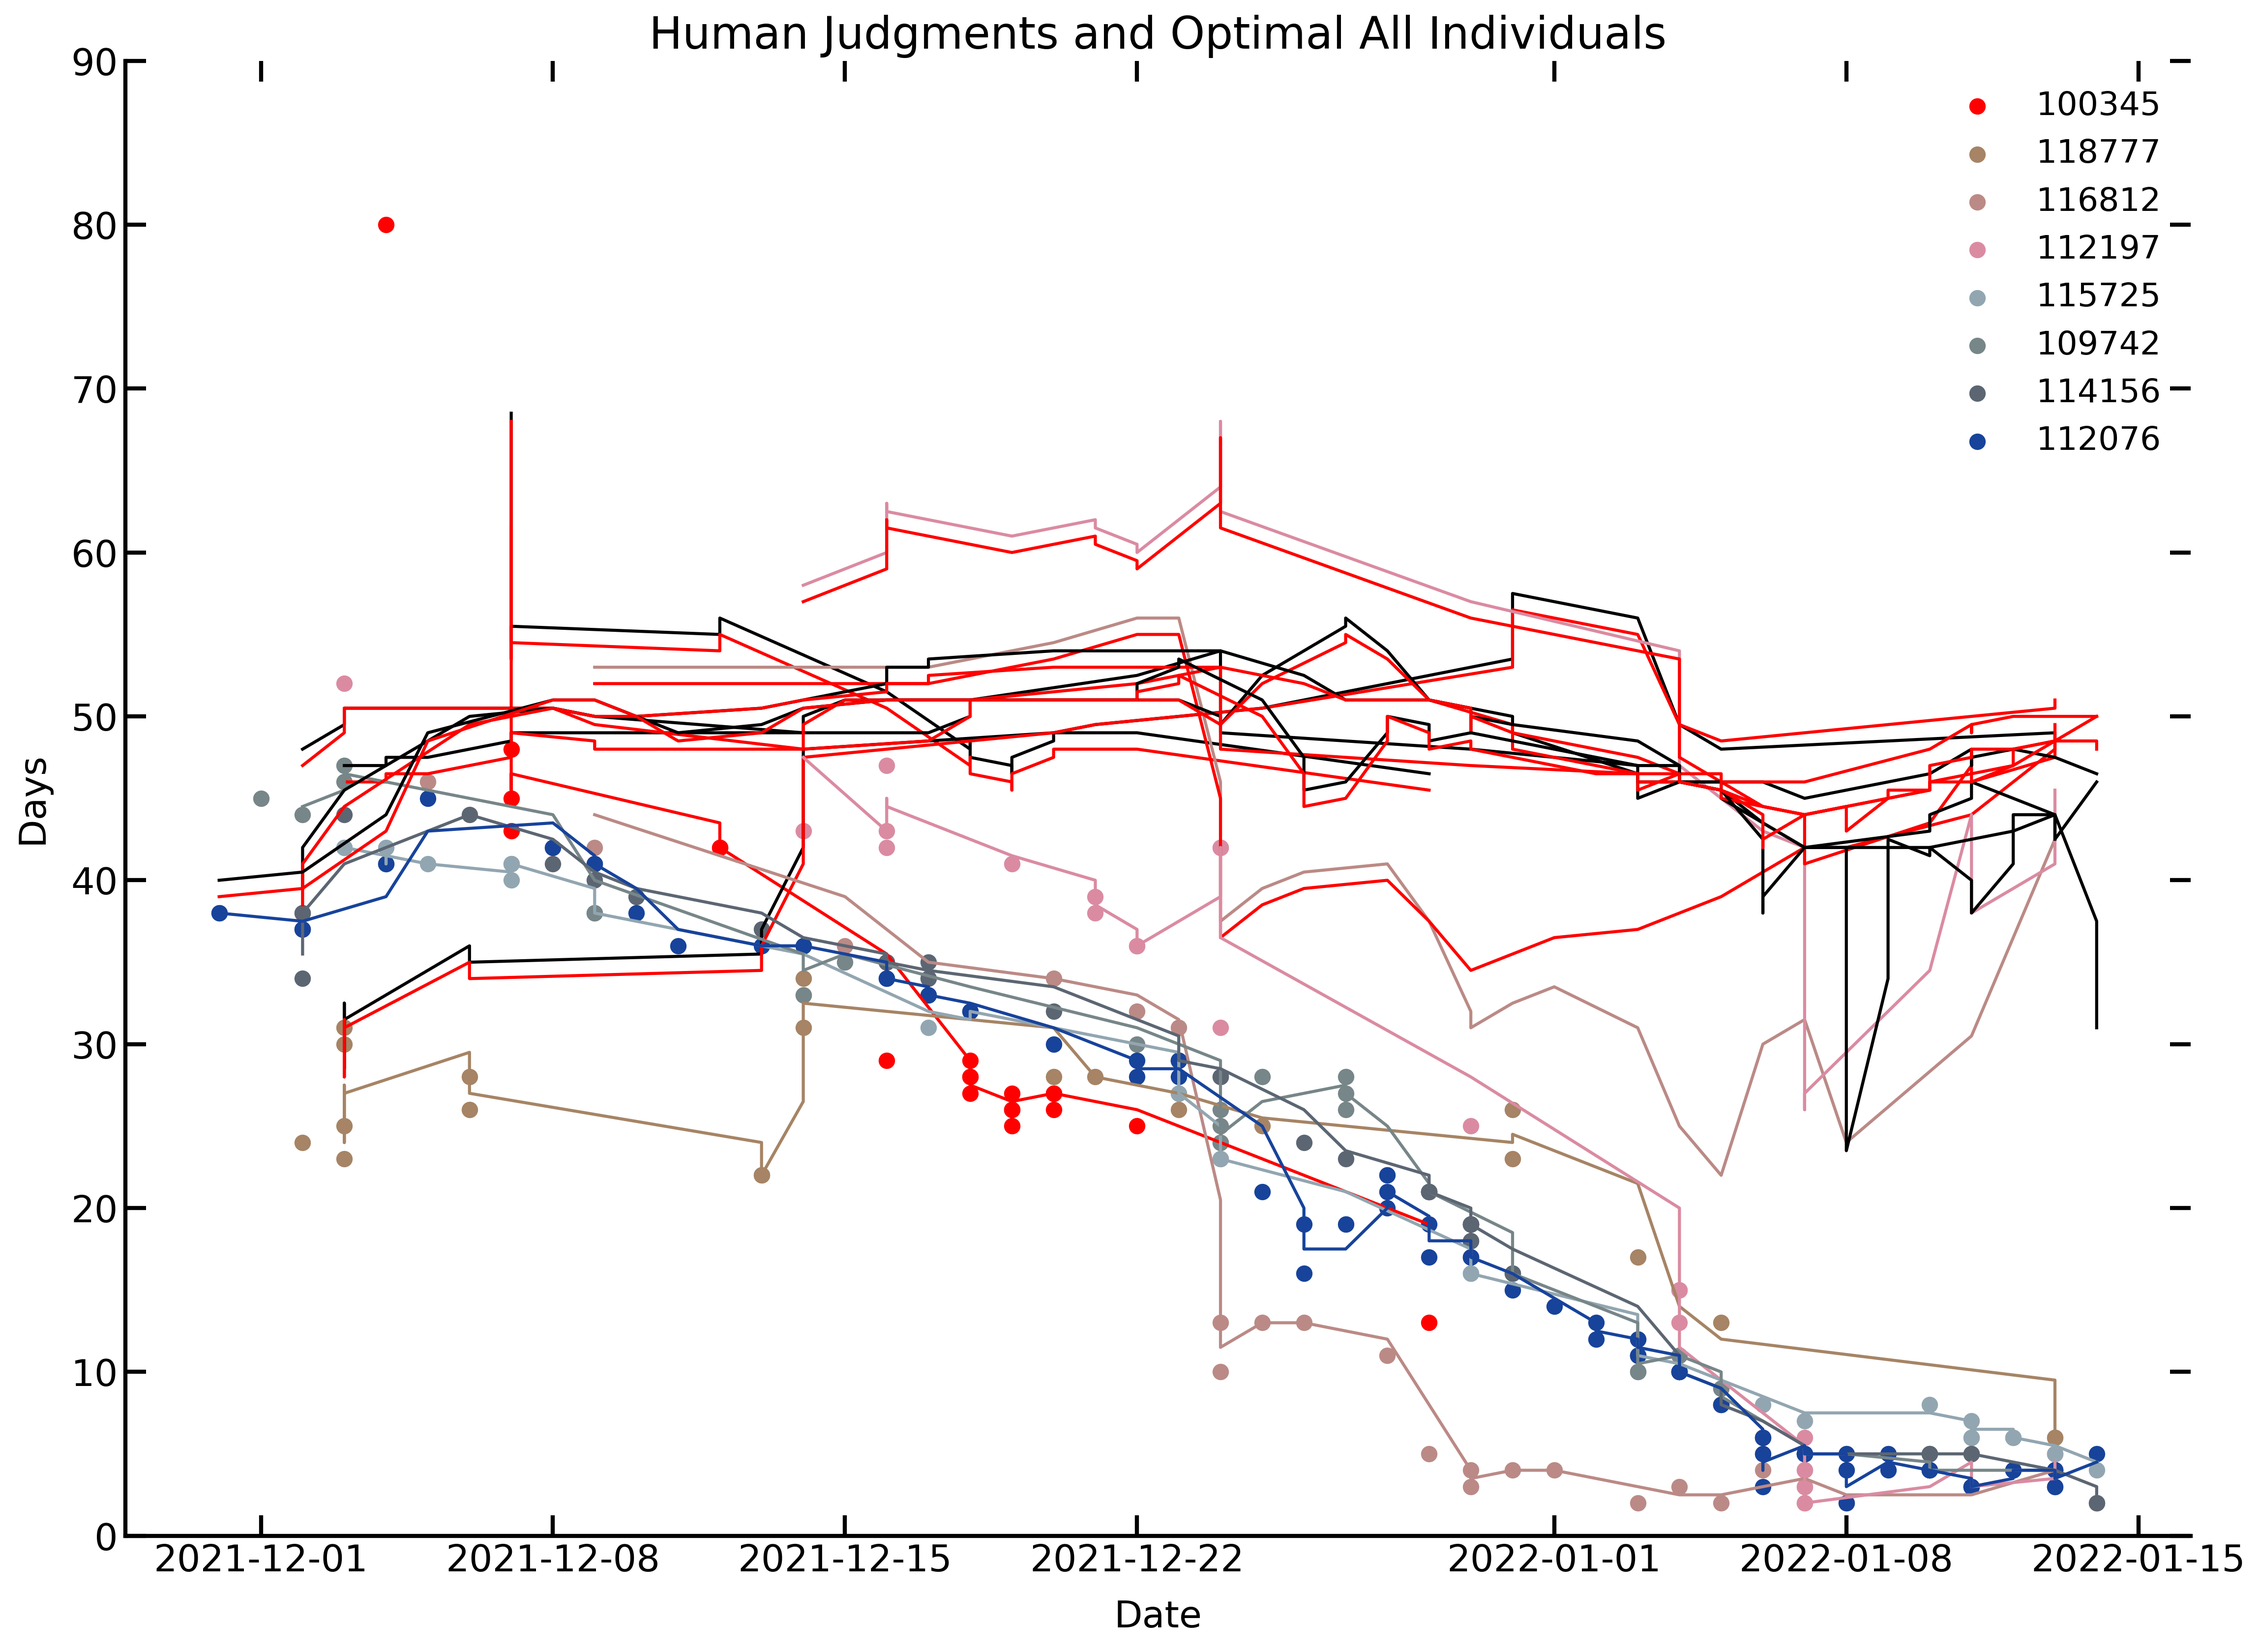
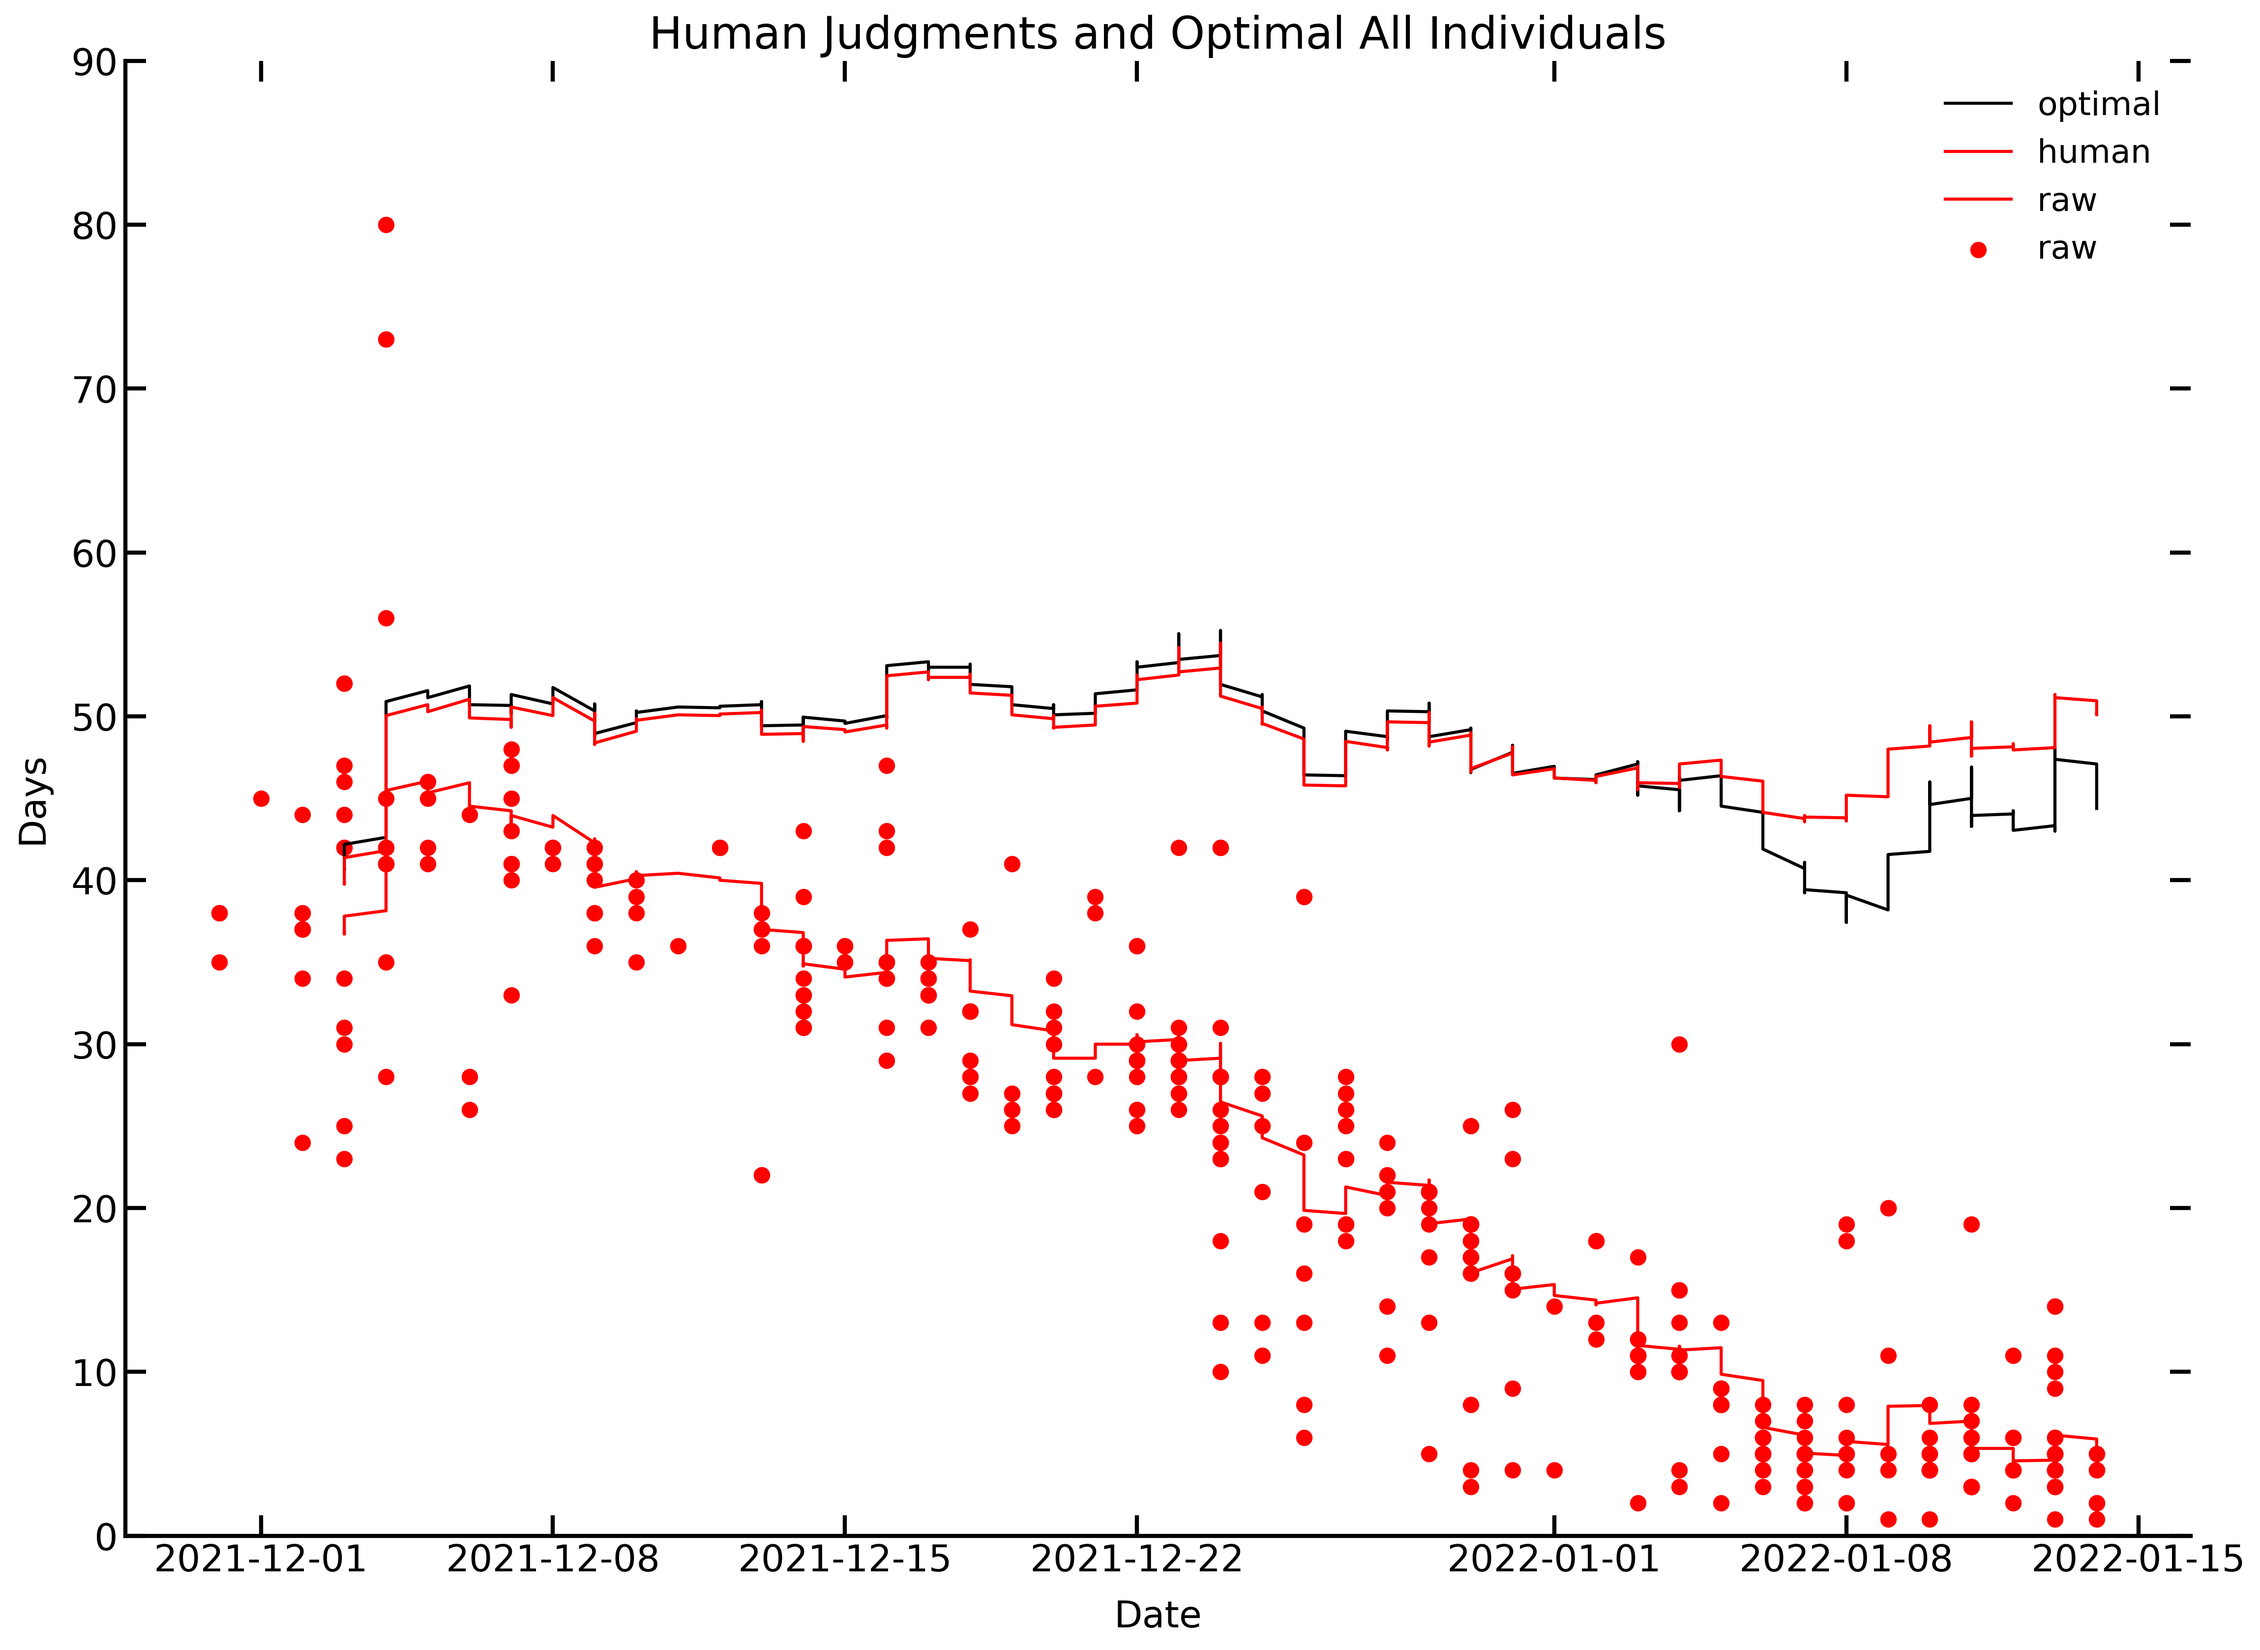
std

diff --git a/simulations/Highest/.ipynb_checkpoints/analysis-checkpoint.py b/simulations/Highest/.ipynb_checkpoints/analysis-checkpoint.py
@@ -145,37 +145,54 @@ plt.savefig('Final_Plot.png', dpi=300, transparent=False, bbox_inches='tight')
 
 
 '''ALL GPs on ONE PLOT'''
+plt.style.use('fast')
 #COLORBLIND SAFE
-colors = ['#ff0000', '#a68465', '#bb8a86', '#da8ba2', '#92a6b1', '#778688', '#5c6673', '#17439b']
-#colors = ['#ee5553', '#ca6357', '#a9685d', '#8b6865', '#70656e', '#576079', '#405886', '#284e95', '#0041a6']
+#colors = ['#ff0000', '#a68465', '#bb8a86', '#da8ba2', '#92a6b1', '#778688', '#5c6673', '#17439b']
+colors = ['#ee5553', '#ca6357', '#a9685d', '#8b6865', '#70656e', '#576079', '#405886', '#284e95', '#0041a6']
 fig = plt.figure(figsize=(7, 5))
 
 ax = fig.add_axes([0, 0, 2, 2])
-ax.set_title(f'Human Judgments and Optimal All Individuals')
-ax.set_xlabel('Date', labelpad=10)
-ax.set_ylabel('Days', labelpad=10)
+ax.set_title(f'Human Judgments and Optimal All Individuals',size=20)
+ax.set_xlabel('Date', labelpad=10,size=20)
+ax.set_ylabel('Days', labelpad=10,size=20)
 
 ax.set_ylim(0, 90)
 ax.xaxis.set_tick_params(which='major', size=10, width=2, direction='in', top='on')
 ax.xaxis.set_tick_params(which='minor', size=7, width=2, direction='in', top='on')
 ax.yaxis.set_tick_params(which='major', size=10, width=2, direction='in', right='on')
 ax.yaxis.set_tick_params(which='minor', size=7, width=2, direction='in', right='on')
+ax.tick_params(axis='x', labelsize=15)
+ax.tick_params(axis='y', labelsize=15)
 ax.spines['right'].set_visible(False)
 ax.spines['top'].set_visible(False)
 
-#gp_no = group_list[0]
-#i = catch_groups[0]
-#ax.scatter(i.index, i.p_dur,linewidth=2,color=colors[0],label='raw')
-#ax.plot(i.prior.rolling(21).mean(),label='optimal',color='black')
-#ax.plot(i.hum.rolling(21).mean(),label='human',color='red')
-#ax.plot(i.p_dur.rolling(21).mean(),label='raw',color=colors[0])
+gp_no = group_list[0]
+i = catch_groups[0]
+'''aVE OVER DAY'''
+grouped = i.groupby(level=0)
 
-gp_no = group_list[1]
-i = catch_groups[1]
-ax.scatter(i.index, i.p_dur,linewidth=2,color=colors[0],label=f'{gp_no}')
-ax.plot(i.prior.rolling(2).mean(),color='black')
-ax.plot(i.hum.rolling(2).mean(),color='red')
-ax.plot(i.p_dur.rolling(2).mean(),color=colors[0])
+ax.scatter(i.index, i.p_dur,color='black',label='horizon',marker='+',s=150,alpha=0.25)
+ax.plot(grouped.prior.mean().rolling(4).mean(),color='black',label='optimal | t',dashes=(0,2,2,2))
+ax.plot(grouped.hum.mean().rolling(4).mean(),color='black',label='human')
+ax.plot(grouped.p_dur.mean().rolling(4).mean(),color='black',label='horizon',dashes=(0,0,2,2))
+
+ax.axvline(x=datetime.strptime('2021-12-24','%Y-%m-%d'),c='black',dashes=(6,6,6,6),linewidth=1)
+ax.axvline(x=datetime.strptime('2022-01-14','%Y-%m-%d'),c='black',dashes=(6,6,6,6),linewidth=1)
+ax.axhline(y=42,c='black',dashes=(2,2,2,2),linewidth=1,alpha=0.2)
+ax.legend(bbox_to_anchor=(.85, .85), loc=1, frameon=False, fontsize=20)
+plt.savefig('All_Ss_BandW.png', dpi=300, transparent=False, bbox_inches='tight')
+plt.show()
+
+
+
+
+
+ax.scatter(i.index, i.p_dur,linewidth=2,color=colors[0],label='raw')
+ax.plot(i.prior.rolling(21).mean(),label='optimal',color='black')
+ax.plot(i.hum.rolling(21).mean(),label='human',color='red')
+ax.plot(i.p_dur.rolling(21).mean(),label='raw',color=colors[0])
+
+
 
 gp_no = group_list[2]
 i = catch_groups[2]

diff --git a/simulations/Highest/analysis.py b/simulations/Highest/analysis.py
@@ -145,37 +145,54 @@ plt.savefig('Final_Plot.png', dpi=300, transparent=False, bbox_inches='tight')
 
 
 '''ALL GPs on ONE PLOT'''
+plt.style.use('fast')
 #COLORBLIND SAFE
-colors = ['#ff0000', '#a68465', '#bb8a86', '#da8ba2', '#92a6b1', '#778688', '#5c6673', '#17439b']
-#colors = ['#ee5553', '#ca6357', '#a9685d', '#8b6865', '#70656e', '#576079', '#405886', '#284e95', '#0041a6']
+#colors = ['#ff0000', '#a68465', '#bb8a86', '#da8ba2', '#92a6b1', '#778688', '#5c6673', '#17439b']
+colors = ['#ee5553', '#ca6357', '#a9685d', '#8b6865', '#70656e', '#576079', '#405886', '#284e95', '#0041a6']
 fig = plt.figure(figsize=(7, 5))
 
 ax = fig.add_axes([0, 0, 2, 2])
-ax.set_title(f'Human Judgments and Optimal All Individuals')
-ax.set_xlabel('Date', labelpad=10)
-ax.set_ylabel('Days', labelpad=10)
+ax.set_title(f'Human Judgments and Optimal All Individuals',size=20)
+ax.set_xlabel('Date', labelpad=10,size=20)
+ax.set_ylabel('Days', labelpad=10,size=20)
 
 ax.set_ylim(0, 90)
 ax.xaxis.set_tick_params(which='major', size=10, width=2, direction='in', top='on')
 ax.xaxis.set_tick_params(which='minor', size=7, width=2, direction='in', top='on')
 ax.yaxis.set_tick_params(which='major', size=10, width=2, direction='in', right='on')
 ax.yaxis.set_tick_params(which='minor', size=7, width=2, direction='in', right='on')
+ax.tick_params(axis='x', labelsize=15)
+ax.tick_params(axis='y', labelsize=15)
 ax.spines['right'].set_visible(False)
 ax.spines['top'].set_visible(False)
 
-#gp_no = group_list[0]
-#i = catch_groups[0]
-#ax.scatter(i.index, i.p_dur,linewidth=2,color=colors[0],label='raw')
-#ax.plot(i.prior.rolling(21).mean(),label='optimal',color='black')
-#ax.plot(i.hum.rolling(21).mean(),label='human',color='red')
-#ax.plot(i.p_dur.rolling(21).mean(),label='raw',color=colors[0])
+gp_no = group_list[0]
+i = catch_groups[0]
+'''aVE OVER DAY'''
+grouped = i.groupby(level=0)
 
-gp_no = group_list[1]
-i = catch_groups[1]
-ax.scatter(i.index, i.p_dur,linewidth=2,color=colors[0],label=f'{gp_no}')
-ax.plot(i.prior.rolling(2).mean(),color='black')
-ax.plot(i.hum.rolling(2).mean(),color='red')
-ax.plot(i.p_dur.rolling(2).mean(),color=colors[0])
+ax.scatter(i.index, i.p_dur,color='black',label='horizon',marker='+',s=150,alpha=0.25)
+ax.plot(grouped.prior.mean().rolling(4).mean(),color='black',label='optimal | t',dashes=(0,2,2,2))
+ax.plot(grouped.hum.mean().rolling(4).mean(),color='black',label='human')
+ax.plot(grouped.p_dur.mean().rolling(4).mean(),color='black',label='horizon',dashes=(0,0,2,2))
+
+ax.axvline(x=datetime.strptime('2021-12-24','%Y-%m-%d'),c='black',dashes=(6,6,6,6),linewidth=1)
+ax.axvline(x=datetime.strptime('2022-01-14','%Y-%m-%d'),c='black',dashes=(6,6,6,6),linewidth=1)
+ax.axhline(y=42,c='black',dashes=(2,2,2,2),linewidth=1,alpha=0.2)
+ax.legend(bbox_to_anchor=(.85, .85), loc=1, frameon=False, fontsize=20)
+plt.savefig('All_Ss_BandW.png', dpi=300, transparent=False, bbox_inches='tight')
+plt.show()
+
+
+
+
+
+ax.scatter(i.index, i.p_dur,linewidth=2,color=colors[0],label='raw')
+ax.plot(i.prior.rolling(21).mean(),label='optimal',color='black')
+ax.plot(i.hum.rolling(21).mean(),label='human',color='red')
+ax.plot(i.p_dur.rolling(21).mean(),label='raw',color=colors[0])
+
+
 
 gp_no = group_list[2]
 i = catch_groups[2]
